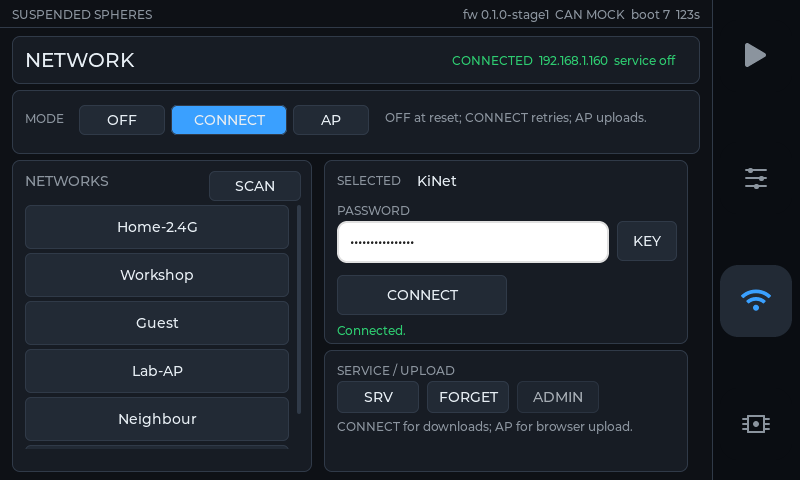
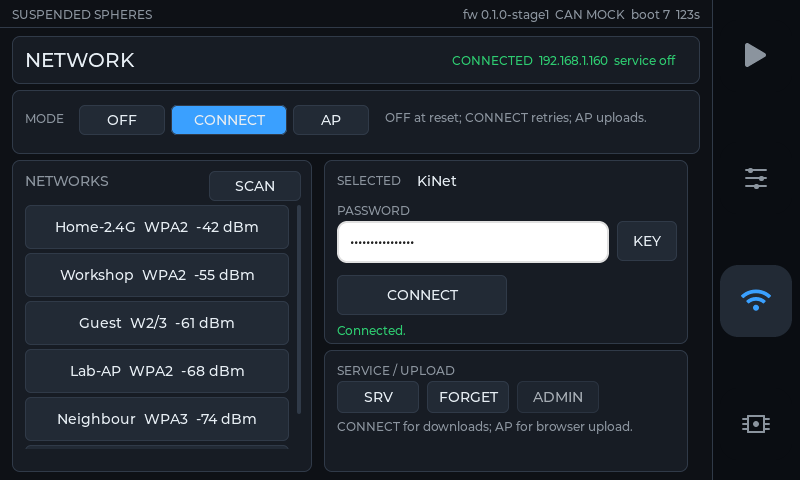
esp32gui: show the WiFi password and report the real failure
- add SHOW/HIDE to the password keypad; the field stays masked by default
- show each scan row's security mode and RSSI, so a WPA3/PMF AP is visible
  before the handshake fails
- report the ESP32 disconnect reason (wrong password, SSID not found,
  beacon lost, numeric code) instead of a generic timeout
- remove the first-connect ESP_ERR_WIFI_STATE race: wait for the STA mode
  switch and retry a failed begin once immediately

diff --git a/esp32gui/src/net_manager.cpp b/esp32gui/src/net_manager.cpp
@@ -42,6 +42,7 @@ net_link_t s_link;
 bool s_have_cred = false;
 char s_ssid[33] = "";
 char s_pass[65] = "";
+uint8_t s_last_reason = 0;
 char s_admin_salt[33] = "";
 char s_admin_hash[65] = "";
 char s_ap_ssid[33] = "";
@@ -65,6 +66,7 @@ volatile bool s_cmd_service_on = false;
 
 char s_scan[12][33];
 int s_scan_rssi[12];
+uint8_t s_scan_auth[12];
 int s_scan_count = 0;
 char s_pending_ssid[33] = "";
 char s_pending_pass[65] = "";
@@ -274,16 +276,27 @@ void connect_sta(void) {
     unlock();
     return;
   }
-  WiFi.mode(WIFI_STA);
-  WiFi.begin(s_ssid, s_pass);
+  if (WiFi.getMode() != WIFI_STA) {
+    WiFi.mode(WIFI_STA);
+    vTaskDelay(pdMS_TO_TICKS(100));
+  }
+  wl_status_t begin_status = WiFi.begin(s_ssid, s_pass);
+  if (begin_status == WL_CONNECT_FAILED) {
+    /* The first set_config after WIFI_OFF can race the STA start. */
+    vTaskDelay(pdMS_TO_TICKS(200));
+    begin_status = WiFi.begin(s_ssid, s_pass);
+  }
+  SS_LOGI("net", "begin %s -> status %d", s_ssid, (int)begin_status);
   lock();
   s_link.state = NET_CONNECTING;
   s_link.have_credentials = true;
   s_link.reason[0] = '\0';
+  s_last_reason = 0;
   s_connect_deadline = millis() + 20000u;
   s_retry_deadline = 0;
   unlock();
-  SS_LOGI("net", "connecting to %s", s_ssid);
+  SS_LOGI("net", "connecting to %s (password %s)", s_ssid,
+          s_pass[0] ? "set" : "empty");
 }
 
 void do_setup(void) { start_ap(); }
@@ -335,11 +348,15 @@ void do_scan(void) {
       }
     }
     if (found >= 0) {
-      if (rssi > s_scan_rssi[found]) s_scan_rssi[found] = rssi;
+      if (rssi > s_scan_rssi[found]) {
+        s_scan_rssi[found] = rssi;
+        s_scan_auth[found] = (uint8_t)WiFi.encryptionType(i);
+      }
     } else {
       std::snprintf(s_scan[s_scan_count], sizeof(s_scan[s_scan_count]), "%s",
                     ssid.c_str());
       s_scan_rssi[s_scan_count] = rssi;
+      s_scan_auth[s_scan_count] = (uint8_t)WiFi.encryptionType(i);
       ++s_scan_count;
     }
   }
@@ -395,6 +412,23 @@ void finish_connected(void) {
   SS_LOGI("net", "connected to %s, IP %s", s_ssid, s_ip);
 }
 
+const char *wifi_failure_text(wl_status_t status, uint8_t reason) {
+  if (reason == 201) return "SSID not found";        /* NO_AP_FOUND */
+  if (reason == 202) return "auth failed";           /* AUTH_FAIL */
+  if (reason == 203) return "association failed";    /* ASSOC_FAIL */
+  if (reason == 204) return "wrong password";        /* HANDSHAKE_TIMEOUT */
+  if (reason == 15) return "wrong password";         /* 4WAY_HANDSHAKE_TIMEOUT */
+  if (reason == 200) return "beacon lost";           /* BEACON_TIMEOUT */
+  switch (status) {
+    case WL_NO_SSID_AVAIL: return "SSID not found";
+    case WL_CONNECT_FAILED: return "connect failed";
+    case WL_CONNECTION_LOST: return "link lost";
+    case WL_DISCONNECTED: return "disconnected";
+    case WL_IDLE_STATUS: return "idle";
+    default: return "connect timeout";
+  }
+}
+
 void schedule_retry(const char *reason) {
   WiFi.disconnect();
   lock();
@@ -434,7 +468,12 @@ void poll_link(void) {
       if (retry_due) {
         connect_sta();
       } else if (timeout) {
-        schedule_retry("connect timeout");
+        const wl_status_t st = WiFi.status();
+        const uint8_t why = s_last_reason;
+        char text[48];
+        std::snprintf(text, sizeof(text), "%s (%u)",
+                      wifi_failure_text(st, why), (unsigned)why);
+        schedule_retry(text);
       } else if (retry_wait) {
         /* waiting for the next visible retry */
       }
@@ -447,7 +486,12 @@ void poll_link(void) {
       s_rssi = (int16_t)WiFi.RSSI();
       unlock();
     } else {
-      schedule_retry("link lost");
+      const wl_status_t st = WiFi.status();
+      const uint8_t why = s_last_reason;
+      char text[48];
+      std::snprintf(text, sizeof(text), "%s (%u)",
+                    wifi_failure_text(st, why), (unsigned)why);
+      schedule_retry(text);
     }
   } else if (state == NET_AP_SETUP || state == NET_FAILED) {
     if (WiFi.status() == WL_CONNECTED && !s_ap_up) finish_connected();
@@ -988,6 +1032,12 @@ extern "C" void net_manager_init(void) {
     SS_LOGE("net", "event loop: %s", esp_err_to_name(err));
   load_nvs();
   net_link_init(&s_link);
+  WiFi.onEvent(
+      [](arduino_event_id_t event, arduino_event_info_t info) {
+        if (event == ARDUINO_EVENT_WIFI_STA_DISCONNECTED)
+          s_last_reason = (uint8_t)info.wifi_sta_disconnected.reason;
+      },
+      ARDUINO_EVENT_WIFI_STA_DISCONNECTED);
   WiFi.persistent(false);
   WiFi.setAutoReconnect(false);
   WiFi.disconnect(true);
@@ -1137,6 +1187,19 @@ extern "C" const char *net_manager_scan_ssid(int index) {
   return s_scan[index];
 }
 
+const char *auth_text(uint8_t mode) {
+  switch (mode) {
+    case 1: return "WEP";
+    case 2: return "WPA";
+    case 3: return "WPA2";
+    case 4: return "W2/3";
+    case 5: return "ENT";
+    case 6: return "WPA3";
+    case 7: return "W2/3";
+    default: return "OPEN";
+  }
+}
+
 extern "C" void net_manager_snapshot(ui_snapshot_t *snap) {
   if (snap == nullptr) return;
   lock();
@@ -1150,9 +1213,13 @@ extern "C" void net_manager_snapshot(ui_snapshot_t *snap) {
   snap->service_on = s_service_on;
   snap->wifi_scanning = s_scanning;
   snap->wifi_scan_count = s_scan_count;
-  for (int i = 0; i < s_scan_count && i < UI_MAX_WIFI_SCAN; ++i)
+  for (int i = 0; i < s_scan_count && i < UI_MAX_WIFI_SCAN; ++i) {
     std::snprintf(snap->wifi_scan_ssid[i], sizeof(snap->wifi_scan_ssid[i]),
                   "%s", s_scan[i]);
+    snap->wifi_scan_rssi[i] = s_scan_rssi[i];
+    std::snprintf(snap->wifi_scan_auth[i], sizeof(snap->wifi_scan_auth[i]),
+                  "%s", auth_text(s_scan_auth[i]));
+  }
   github_client_status(snap->github_status, sizeof(snap->github_status));
   snap->github_update_available = github_client_update_available();
   snap->wifi_rssi = s_rssi;

diff --git a/esp32gui/ui/ui.cpp b/esp32gui/ui/ui.cpp
@@ -192,6 +192,8 @@ lv_obj_t *s_wifi_modal;
 lv_obj_t *s_wifi_modal_ta;
 lv_obj_t *s_wifi_modal_title;
 lv_obj_t *s_wifi_modal_kb;
+lv_obj_t *s_wifi_modal_show_btn;
+bool s_wifi_modal_show = false;
 int s_wifi_modal_target = 0;
 bool s_wifi_upper = false;
 bool s_wifi_symbols = false;
@@ -876,7 +878,14 @@ void wifi_open_modal(int target) {
                                                        ? s_snap->wifi_ap_password
                                                        : s_wifi_ap_key_buf));
   lv_textarea_set_text(s_wifi_modal_ta, text);
-  lv_textarea_set_password_mode(s_wifi_modal_ta, target != 2);
+  s_wifi_modal_show = (target == 2);
+  lv_textarea_set_password_mode(s_wifi_modal_ta, !s_wifi_modal_show);
+  if (s_wifi_modal_show_btn != nullptr) {
+    set_hidden(s_wifi_modal_show_btn, target == 2);
+    lv_obj_t *l = lv_obj_get_child(s_wifi_modal_show_btn, 0);
+    if (l != nullptr)
+      lv_label_set_text(l, s_wifi_modal_show ? "HIDE" : "SHOW");
+  }
   wifi_build_keypad();
   lv_obj_clear_flag(s_wifi_modal, LV_OBJ_FLAG_HIDDEN);
   lv_obj_move_foreground(s_wifi_modal);
@@ -890,6 +899,14 @@ void on_wifi_pass_focus(lv_event_t *e) {
 void on_wifi_admin_focus(lv_event_t *e) {
   (void)e;
   wifi_open_modal(1);
+}
+
+void on_wifi_modal_show(lv_event_t *e) {
+  (void)e;
+  s_wifi_modal_show = !s_wifi_modal_show;
+  lv_textarea_set_password_mode(s_wifi_modal_ta, !s_wifi_modal_show);
+  lv_obj_t *l = lv_obj_get_child(s_wifi_modal_show_btn, 0);
+  if (l != nullptr) lv_label_set_text(l, s_wifi_modal_show ? "HIDE" : "SHOW");
 }
 
 void on_wifi_modal_done(lv_event_t *e) {
@@ -2075,6 +2092,11 @@ void build_wifi(void) {
                                   &lv_font_montserrat_20, C_TEXT);
   lv_obj_set_pos(s_wifi_modal_title, 16, 10);
 
+  s_wifi_modal_show_btn = make_button(s_wifi_modal, "SHOW", 92, 40,
+                                      on_wifi_modal_show, nullptr);
+  lv_obj_set_style_text_font(s_wifi_modal_show_btn,
+                             &lv_font_montserrat_14, 0);
+  lv_obj_set_pos(s_wifi_modal_show_btn, 470, 8);
   lv_obj_t *done = make_button(s_wifi_modal, "DONE", 92, 40, on_wifi_modal_done,
                                nullptr);
   lv_obj_set_style_bg_color(done, C_ACCENT, 0);
@@ -3227,8 +3249,14 @@ void ui_update(const ui_snapshot_t *snapshot) {
     s_wifi_shown_hash = wifi_hash;
     lv_obj_clean(s_wifi_list);
     for (int i = 0; i < s_snap->wifi_scan_count && i < UI_MAX_WIFI_SCAN; ++i) {
-      lv_obj_t *b = make_button(s_wifi_list, s_snap->wifi_scan_ssid[i], 264,
-                                44, on_wifi_row, (void *)(intptr_t)i);
+      char row[56];
+      std::snprintf(row, sizeof(row), "%s  %s  %d dBm",
+                    s_snap->wifi_scan_ssid[i],
+                    s_snap->wifi_scan_auth[i][0] ? s_snap->wifi_scan_auth[i]
+                                                 : "--",
+                    (int)s_snap->wifi_scan_rssi[i]);
+      lv_obj_t *b = make_button(s_wifi_list, row, 264, 44, on_wifi_row,
+                                (void *)(intptr_t)i);
       lv_obj_set_style_text_font(b, &lv_font_montserrat_14, 0);
     }
   }

diff --git a/esp32gui/host/src/main.cpp b/esp32gui/host/src/main.cpp
@@ -234,9 +234,15 @@ ui_snapshot_t make_snapshot() {
   s.wifi_scan_count = 6;
   const char *scan[] = {"Home-2.4G", "Workshop", "Guest",
                         "Lab-AP", "Neighbour", "Cafe"};
-  for (int i = 0; i < 6; ++i)
+  const int8_t scan_rssi[] = {-42, -55, -61, -68, -74, -81};
+  const char *scan_auth[] = {"WPA2", "WPA2", "W2/3", "WPA2", "WPA3", "OPEN"};
+  for (int i = 0; i < 6; ++i) {
     std::snprintf(s.wifi_scan_ssid[i], sizeof(s.wifi_scan_ssid[i]), "%s",
                   scan[i]);
+    s.wifi_scan_rssi[i] = scan_rssi[i];
+    std::snprintf(s.wifi_scan_auth[i], sizeof(s.wifi_scan_auth[i]), "%s",
+                  scan_auth[i]);
+  }
   s.service_on = true;
   std::snprintf(s.github_status, sizeof(s.github_status), "%s",
                 "same 0.1.0");

diff --git a/esp32gui/ui/ui_model.h b/esp32gui/ui/ui_model.h
@@ -198,6 +198,8 @@ typedef struct {
   bool wifi_scanning;
   int wifi_scan_count;
   char wifi_scan_ssid[UI_MAX_WIFI_SCAN][33];
+  int8_t wifi_scan_rssi[UI_MAX_WIFI_SCAN];
+  char wifi_scan_auth[UI_MAX_WIFI_SCAN][8];
   bool service_on;
   char github_status[64];
   bool github_update_available;

diff --git a/doc/esp32gui_ui_design.md b/doc/esp32gui_ui_design.md
@@ -111,7 +111,9 @@ opens the AP as a side effect.
 ### 3.3 CONNECT retry
 
 A failed CONNECT does **not** fall back to AP.  The panel stays in
-`CONNECTING`, reports the reason, and retries every 5 s.  The operator can
+`CONNECTING`, reports the ESP32 disconnect reason (`wrong password`,
+`SSID not found`, `beacon lost`, with the numeric code), and retries every
+5 s.  The operator can
 stop it with **OFF** or switch to **AP**.  The retry loop is intentionally
 visible: a wrong password is a configuration error, not an invitation to
 start an access point.
@@ -179,7 +181,10 @@ The reason line remains visible so the operator knows what to do next.
   `http://192.168.4.1`.
 - Outside AP mode: scan list with `SCAN` on the left, selected SSID/password
   and `CONNECT` on the right, and service/forget/admin below.  There is no
-  GitHub control here.
+  GitHub control here.  Each scan row shows the security mode and RSSI.
+- The password keypad has an explicit **SHOW**/**HIDE** toggle.  The field is
+  masked by default; showing it is an operator action, and the AP key modal
+  stays visible by design.
 
 Every panel has 12 px inner padding.  Controls stop at the inner edge; do
 not place a 32 px button at `y` such that `y + height` exceeds the panel

diff --git a/doc/esp32gui_whitepaper.md b/doc/esp32gui_whitepaper.md
@@ -262,7 +262,7 @@ in `esp32gui/host/png/`.
 | Nodes | Discovered boards by 6-byte UUID, board ID, online state, running `sw` version, assigned positions, MCU temperature, TMC OTPW/OT, health age |
 | Motor | Selected board and axis (assigned axes are green); board health; HOME, UP, DOWN, STOP; tap a grid cell to choose the position, then assign/unassign |
 | Config | Grid size, test-run drop/speed/gap, serpentine, save/reset/clear, SPIFFS state |
-| Connect | Explicit OFF / CONNECT / AP, scan, password keypad, service, AP password/rotate/edit, join/browser QR, reason |
+| Connect | Explicit OFF / CONNECT / AP, scan with security and RSSI, password keypad with SHOW/HIDE, service, AP password/rotate/edit, join/browser QR, disconnect reason |
 | Service hub | Firmware, CAN scope, Log, System |
 | Firmware | Fly node image, panel image from SD, GitHub check/install, fleet upgrade; 30 tiles on one page in 6 × 5 order; board ID, neutral queued, the one yellow Katapult board, green verified, dim excluded; `QUERY ALL`, `UPGRADE ALL OUTDATED`, `UPGRADE SELECTED`, `STOP`, image version/build/source and `n / 30` |
 | CAN | Received-frame scope by identifier (raw ID, type, count, last data), TX sent/rejected, RX drops, bus-off state; clear |
